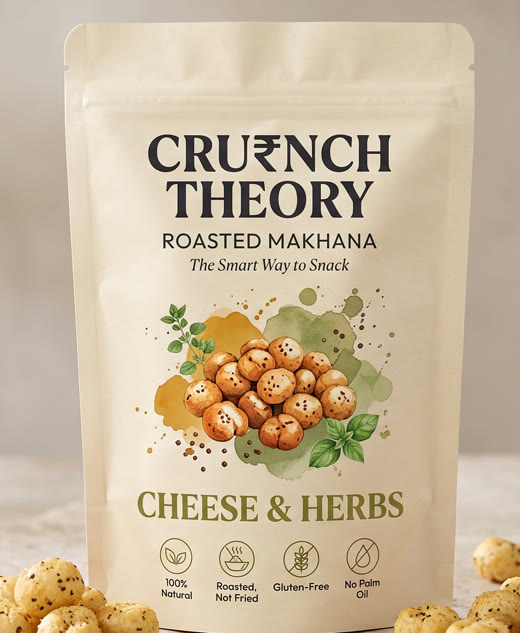
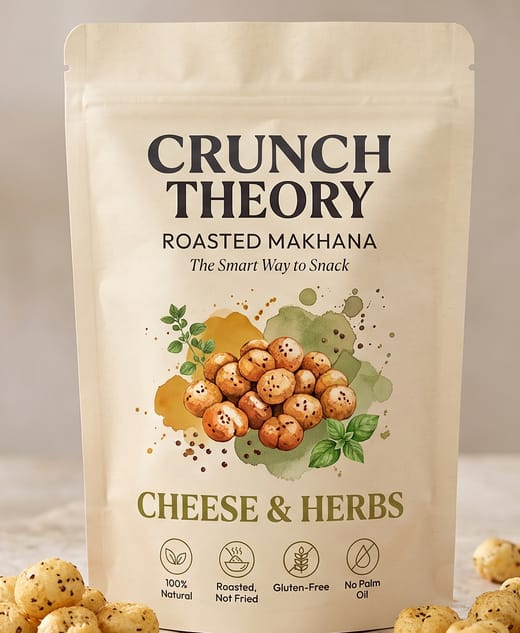
Use regenerated pack shots with cache-proof image URLs
- Crop the new Peri Peri, Cheese & Herbs and Pudina pack shots (correct
  'CRUNCH THEORY' spelling; Gemini watermark cropped out). The Pudina pack's
  ghost 'R' is patched with the pixel-aligned wordmark from Cheese & Herbs;
  the untouched original is kept in content/pouches/.
- Restore the site images the previous commit removed (the site was
  requesting .jpg files that no longer existed).
- Import pack images from src/assets/pouches so Next.js serves them under
  content-hashed URLs: replacing a picture can no longer leave stale copies
  in the image optimiser, CDN or browser caches.
- Add 'npm run images' to regenerate site and share-image crops from
  content/pouches/*.png.

diff --git a/src/data/flavours.ts b/src/data/flavours.ts
@@ -1,3 +1,10 @@
+import type { StaticImageData } from 'next/image'
+
+import cheeseHerbs from '@/assets/pouches/cheese-herbs.jpg'
+import pinkSaltPepper from '@/assets/pouches/himalayan-pink-salt-pepper.jpg'
+import periPeriKick from '@/assets/pouches/peri-peri-kick.jpg'
+import pudinaChatpata from '@/assets/pouches/pudina-chatpata.jpg'
+
 export type NutritionRow = {
   label: string
   perServing: string
@@ -17,8 +24,11 @@ export type Flavour = {
   heat: 0 | 1 | 2 | 3
   /** Tailwind-safe CSS colour tokens for the illustrated pouch and accents. */
   palette: { primary: string; secondary: string }
-  /** Pack photo in /public. When absent, an illustrated pouch is rendered instead. */
-  image?: string
+  /**
+   * Pack photo, imported so it gets a content-hashed URL (regenerate with `npm run images`).
+   * When absent, an illustrated pouch is rendered instead.
+   */
+  image?: StaticImageData
   ingredients: string[]
   allergens: string
   servingSize: string
@@ -62,7 +72,7 @@ export const flavours: Flavour[] = [
       'Roasted makhana seasoned with Himalayan pink salt and freshly cracked black pepper. Roasted, not fried, gluten-free and made with six simple ingredients — the everyday swap for chips at your desk.',
     heat: 1,
     palette: { primary: 'var(--color-sage)', secondary: 'var(--color-terracotta)' },
-    image: '/images/pouch-pink-salt-pepper.jpg',
+    image: pinkSaltPepper,
     ingredients: [
       'Makhana (fox nuts)',
       'Rice bran oil',
@@ -88,7 +98,7 @@ export const flavours: Flavour[] = [
       'Roasted makhana tossed in a smoky peri peri blend of chilli, garlic and paprika. Bold, shareable heat without the deep-fryer — roasted, gluten-free and portion-friendly.',
     heat: 3,
     palette: { primary: 'var(--color-terracotta)', secondary: 'var(--color-mustard)' },
-    image: '/images/pouch-peri-peri-kick.jpg',
+    image: periPeriKick,
     ingredients: [
       'Makhana (fox nuts)',
       'Rice bran oil',
@@ -112,7 +122,7 @@ export const flavours: Flavour[] = [
       'Roasted makhana with a real cheese seasoning and Italian herbs. A familiar, kid-approved flavour for lunchboxes and evening snacking — roasted, never fried.',
     heat: 0,
     palette: { primary: 'var(--color-mustard)', secondary: 'var(--color-sage)' },
-    image: '/images/pouch-cheese-herbs.jpg',
+    image: cheeseHerbs,
     ingredients: [
       'Makhana (fox nuts)',
       'Rice bran oil',
@@ -137,7 +147,7 @@ export const flavours: Flavour[] = [
       'Roasted makhana with fresh pudina (mint), amchur and chaat masala. A tangy, cooling desi flavour that tastes like a street-side snack — without the frying.',
     heat: 1,
     palette: { primary: 'var(--color-sage)', secondary: 'var(--color-mustard)' },
-    image: '/images/pouch-pudina-chatpata.jpg',
+    image: pudinaChatpata,
     ingredients: [
       'Makhana (fox nuts)',
       'Rice bran oil',

diff --git a/src/components/flavour/pouch-fan.tsx b/src/components/flavour/pouch-fan.tsx
@@ -4,7 +4,7 @@ import { motion } from 'motion/react'
 import Image from 'next/image'
 import Link from 'next/link'
 
-import { flavours } from '@/data/flavours'
+import { flavours, type Flavour } from '@/data/flavours'
 
 // Each card's left edge sits at the container's centre, so x = -50% centres it; the fan
 // offsets are ±27% and ±80% of a card's width around that.
@@ -17,7 +17,9 @@ const spread = [
 
 /** The lineup as a hand of cards: stacked at first, fanning out when scrolled into view. */
 export function PouchFan() {
-  const lineup = flavours.filter((f) => f.image).slice(0, spread.length)
+  const lineup = flavours
+    .filter((f): f is Flavour & Required<Pick<Flavour, 'image'>> => Boolean(f.image))
+    .slice(0, spread.length)
 
   return (
     <div className="relative mx-auto h-[13rem] w-full max-w-xl sm:h-[24rem]">
@@ -37,10 +39,8 @@ export function PouchFan() {
             className="block overflow-hidden rounded-[1.6rem] shadow-[0_30px_50px_-20px_rgb(0_0_0/0.55)] ring-1 ring-paper/10"
           >
             <Image
-              src={f.image!}
+              src={f.image}
               alt={`${f.name} pouch`}
-              width={600}
-              height={600}
               sizes="(min-width: 640px) 240px, 42vw"
               className="aspect-square w-full object-cover"
             />

diff --git a/src/components/sections/home/product-spotlight.tsx b/src/components/sections/home/product-spotlight.tsx
@@ -53,14 +53,15 @@ export function ProductSpotlight() {
           />
           <motion.div style={{ rotate, y }} className="relative">
             <div className="animate-float">
-              <Image
-                src={featuredFlavour.image ?? '/images/pouch-pink-salt-pepper.jpg'}
-                alt={`Crunch Theory ${featuredFlavour.name} roasted makhana pouch`}
-                width={900}
-                height={900}
-                sizes="(min-width: 1024px) 28rem, 80vw"
-                className="aspect-square rounded-[2rem] object-cover shadow-[0_40px_80px_-20px_rgb(0_0_0/0.5)]"
-              />
+              {featuredFlavour.image && (
+                <Image
+                  src={featuredFlavour.image}
+                  alt={`Crunch Theory ${featuredFlavour.name} roasted makhana pouch`}
+                  sizes="(min-width: 1024px) 28rem, 80vw"
+                  placeholder="blur"
+                  className="aspect-square rounded-[2rem] object-cover shadow-[0_40px_80px_-20px_rgb(0_0_0/0.5)]"
+                />
+              )}
             </div>
           </motion.div>
           {badges.map((b, i) => (

diff --git a/src/lib/seo.ts b/src/lib/seo.ts
@@ -82,7 +82,7 @@ export function productSchema(flavour: Flavour): WithContext<Product> {
     name: `${site.name} Roasted Makhana — ${flavour.name}`,
     description: flavour.description,
     url,
-    image: absoluteUrl(flavour.image ?? `/flavours/${flavour.slug}/opengraph-image`),
+    image: absoluteUrl(flavour.image?.src ?? `/flavours/${flavour.slug}/opengraph-image`),
     brand: { '@type': 'Brand', name: site.name },
     category: 'Snacks > Roasted Makhana',
     sku: `CT-${flavour.slug}`,

diff --git a/src/components/flavour/flavour-visual.tsx b/src/components/flavour/flavour-visual.tsx
@@ -13,9 +13,8 @@ export function FlavourVisual({ flavour, sizes, priority, className }: Props) {
       <Image
         src={flavour.image}
         alt={`Crunch Theory ${flavour.name} roasted makhana pouch`}
-        width={1200}
-        height={1200}
         sizes={sizes}
+        placeholder="blur"
         priority={priority}
         className={cn('aspect-square w-full rounded-[1.75rem] object-cover', className)}
       />

diff --git a/src/app/sitemap.ts b/src/app/sitemap.ts
@@ -27,7 +27,7 @@ export default function sitemap(): MetadataRoute.Sitemap {
       url: absoluteUrl(`/flavours/${f.slug}`),
       changeFrequency: 'monthly' as const,
       priority: 0.8,
-      ...(f.image && { images: [absoluteUrl(f.image)] }),
+      ...(f.image && { images: [absoluteUrl(f.image.src)] }),
     })),
   ]
 }

diff --git a/docs/IMAGE_PROMPTS.md b/docs/IMAGE_PROMPTS.md
@@ -27,29 +27,26 @@ if your tool supports it).
 Same scene as `image1.png`: the pouch centred on a stone tabletop, a soft blurred plant shadow on
 a cream wall, and a small pile of makhana in front.
 
-| #   | Save to                                   | Prompt                                                                                                                                                                                                                                                                                                                                                                                                                                                                               |
-| --- | ----------------------------------------- | ------------------------------------------------------------------------------------------------------------------------------------------------------------------------------------------------------------------------------------------------------------------------------------------------------------------------------------------------------------------------------------------------------------------------------------------------------------------------------------ |
-| 1a  | `public/images/pouch-peri-peri-kick.jpg`  | A matte cream stand-up pouch labelled "CRUNCH THEORY — ROASTED MAKHANA — The Smart Way to Snack", flavour name "PERI PERI KICK" in olive serif capitals, watercolour illustration of makhana with terracotta and mustard paint splashes and small red chillies, four round badges "100% Natural", "Roasted, Not Fried", "Gluten-Free", "No Palm Oil". It stands on a light stone surface with roasted makhana dusted in red peri peri seasoning and two dried red chillies in front. |
-| 1b  | `public/images/pouch-cheese-herbs.jpg`    | The same pouch design with flavour name "CHEESE & HERBS", watercolour makhana with mustard-yellow and sage splashes and sprigs of oregano and basil. In front: makhana with a light golden cheese coating and fresh basil leaves.                                                                                                                                                                                                                                                    |
-| 1c  | `public/images/pouch-pudina-chatpata.jpg` | The same pouch design with flavour name "PUDINA CHATPATA", watercolour makhana with sage-green and mustard splashes and mint leaves. In front: makhana with green mint seasoning, fresh pudina leaves and a small bowl of chaat masala.                                                                                                                                                                                                                                              |
+| #   | Save to                                     | Prompt                                                                                                                                                                                                                                                                                                                                                                                                                                                                               |
+| --- | ------------------------------------------- | ------------------------------------------------------------------------------------------------------------------------------------------------------------------------------------------------------------------------------------------------------------------------------------------------------------------------------------------------------------------------------------------------------------------------------------------------------------------------------------ |
+| 1a  | `content/pouches/pouch-peri-peri-kick.png`  | A matte cream stand-up pouch labelled "CRUNCH THEORY — ROASTED MAKHANA — The Smart Way to Snack", flavour name "PERI PERI KICK" in olive serif capitals, watercolour illustration of makhana with terracotta and mustard paint splashes and small red chillies, four round badges "100% Natural", "Roasted, Not Fried", "Gluten-Free", "No Palm Oil". It stands on a light stone surface with roasted makhana dusted in red peri peri seasoning and two dried red chillies in front. |
+| 1b  | `content/pouches/pouch-cheese-herbs.png`    | The same pouch design with flavour name "CHEESE & HERBS", watercolour makhana with mustard-yellow and sage splashes and sprigs of oregano and basil. In front: makhana with a light golden cheese coating and fresh basil leaves.                                                                                                                                                                                                                                                    |
+| 1c  | `content/pouches/pouch-pudina-chatpata.png` | The same pouch design with flavour name "PUDINA CHATPATA", watercolour makhana with sage-green and mustard splashes and mint leaves. In front: makhana with green mint seasoning, fresh pudina leaves and a small bowl of chaat masala.                                                                                                                                                                                                                                              |
 
-**After saving**, open `src/data/flavours.ts` and add `image: '/images/pouch-<slug>.jpg',` to that flavour.
+**After saving**, run `npm run images`. For a brand-new flavour, also import `src/assets/pouches/<slug>.jpg` in `src/data/flavours.ts` and set it as that flavour's `image`.
 
-> **Status (Oct 2026):** all three are in use. The source PNGs are kept in `content/pouches/`, and the
-> site uses square JPG crops, which also cut out the Gemini watermark.
+> **Status (21 Oct 2026):** all three are in use, regenerated with the correct "CRUNCH THEORY"
+> spelling. The source PNGs are in `content/pouches/`. The site uses square JPG crops, which
+> also cut out the Gemini watermark.
 >
-> **⚠ Regenerate before launch:** the generated packs misspell the brand as **"CRU₹NCH THEORY"**
-> (with a rupee sign), and their charcoal wordmark doesn't match the green/olive one on the Pink Salt
-> & Pepper pack. Add this to each prompt above and attach `content/image1.png` as the style reference:
+> The regenerated Pudina pack still had a faint ghost "R" ("CRURNCH"). The "CRUNCH" word was
+> transplanted from the Cheese & Herbs pack, which uses the identical pixel-aligned layout. The
+> untouched file is kept as `pouch-pudina-chatpata.original.png`.
 >
-> _"The brand name must read exactly CRUNCH THEORY in two lines, spelled C-R-U-N-C-H, with no
-> symbols, currency signs or extra letters. Copy the typography and colours from the reference pack
-> exactly: 'CRUNCH' in deep forest green (#2F4A2C) and 'THEORY' in olive gold (#8A7A48), in the same
-> classic serif capitals. Keep the same layout, 16:9 frame, centred pouch and stone tabletop as the
-> reference."_
->
-> Then export each image, run the crop again (centre 1536 × 1536 → `public/images/pouch-<slug>.jpg`,
-> and a portrait 1100 × 1340 crop scaled to 520 px wide → `src/assets/og/<slug>.jpg`), and redeploy.
+> **To replace a pack image:** save the new PNG as `content/pouches/pouch-<slug>.png` (keep the
+> same name) and run `npm run images`, then commit and push. Pack images are imported, so each new
+> picture gets a new hashed URL, and no CDN or browser can keep showing the old one. Don't put
+> files in `public/images/` for packs.
 
 ---
 

diff --git a/README.md b/README.md
@@ -13,14 +13,15 @@ cp .env.example .env.local   # then fill in your values
 npm run dev                   # http://localhost:3000
 ```
 
-| Script                        | What it does                                            |
-| ----------------------------- | ------------------------------------------------------- |
-| `npm run dev`                 | Starts the dev server (Turbopack)                       |
-| `npm run build` / `npm start` | Builds for production and serves the build              |
-| `npm run typecheck`           | Generates route types, then runs `tsc`                  |
-| `npm run lint`                | Runs ESLint (Next core-web-vitals and TypeScript rules) |
-| `npm run format`              | Formats with Prettier (with Tailwind class sorting)     |
-| `npm run check`               | Runs typecheck, lint and the format check, as CI would  |
+| Script                        | What it does                                                     |
+| ----------------------------- | ---------------------------------------------------------------- |
+| `npm run dev`                 | Starts the dev server (Turbopack)                                |
+| `npm run build` / `npm start` | Builds for production and serves the build                       |
+| `npm run typecheck`           | Generates route types, then runs `tsc`                           |
+| `npm run lint`                | Runs ESLint (Next core-web-vitals and TypeScript rules)          |
+| `npm run format`              | Formats with Prettier (with Tailwind class sorting)              |
+| `npm run check`               | Runs typecheck, lint and the format check, as CI would           |
+| `npm run images`              | Rebuilds site and share-image crops from `content/pouches/*.png` |
 
 ## Project structure
 
@@ -29,7 +30,8 @@ content/            Raw brand media (source files; not deployed)
 reference/          Brand strategy deck (personas, tribes, journey)
 docs/               IMAGE_PROMPTS.md (AI prompts for the remaining photography)
 public/media        Hero video (watermark removed, webm + mp4) and poster
-public/images       Optimised product and lifestyle images
+public/images       Lifestyle / story images (served as-is)
+src/assets/pouches  Pack shots, imported for hashed URLs (generate with npm run images)
 src/
   app/              Routes, metadata routes (sitemap, robots, manifest, OG images, llms.txt)
   actions/          Server Actions (newsletter, contact)

diff --git a/docs/DEPLOYMENT.md b/docs/DEPLOYMENT.md
@@ -115,7 +115,7 @@ they count as conversions.
 ## 8. Day-to-day updates
 
 ```bash
-# edit copy in src/data/*, add images to public/images, etc.
+# edit copy in src/data/*; new pack shots → content/pouches/ then `npm run images`
 npm run check && npm run build
 git add -A
 git commit -m "Update flavour prices"
